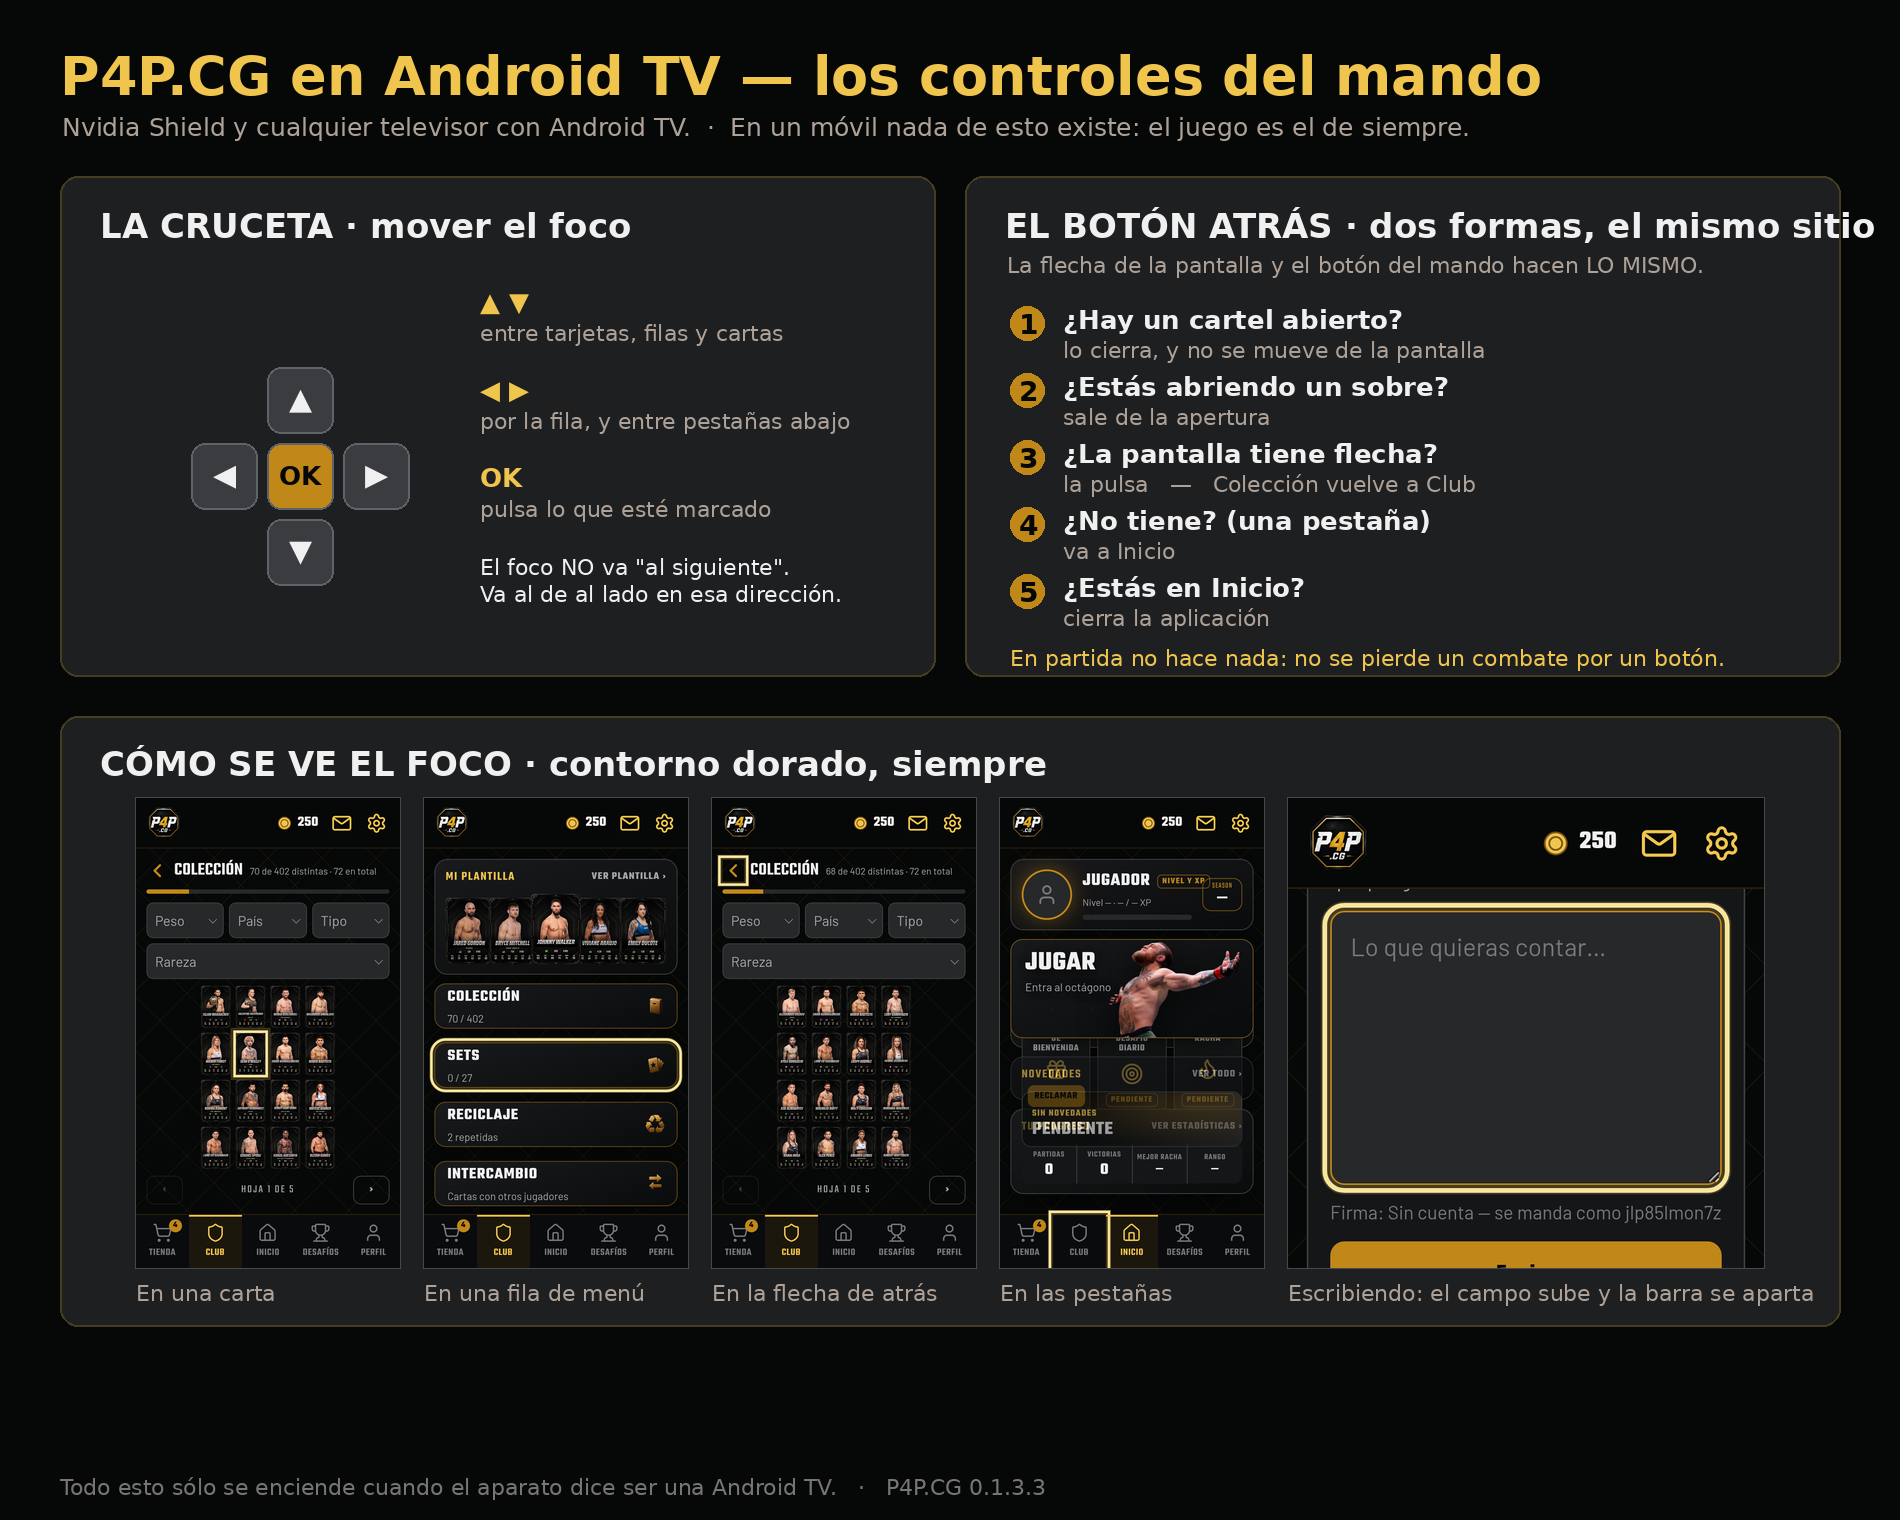
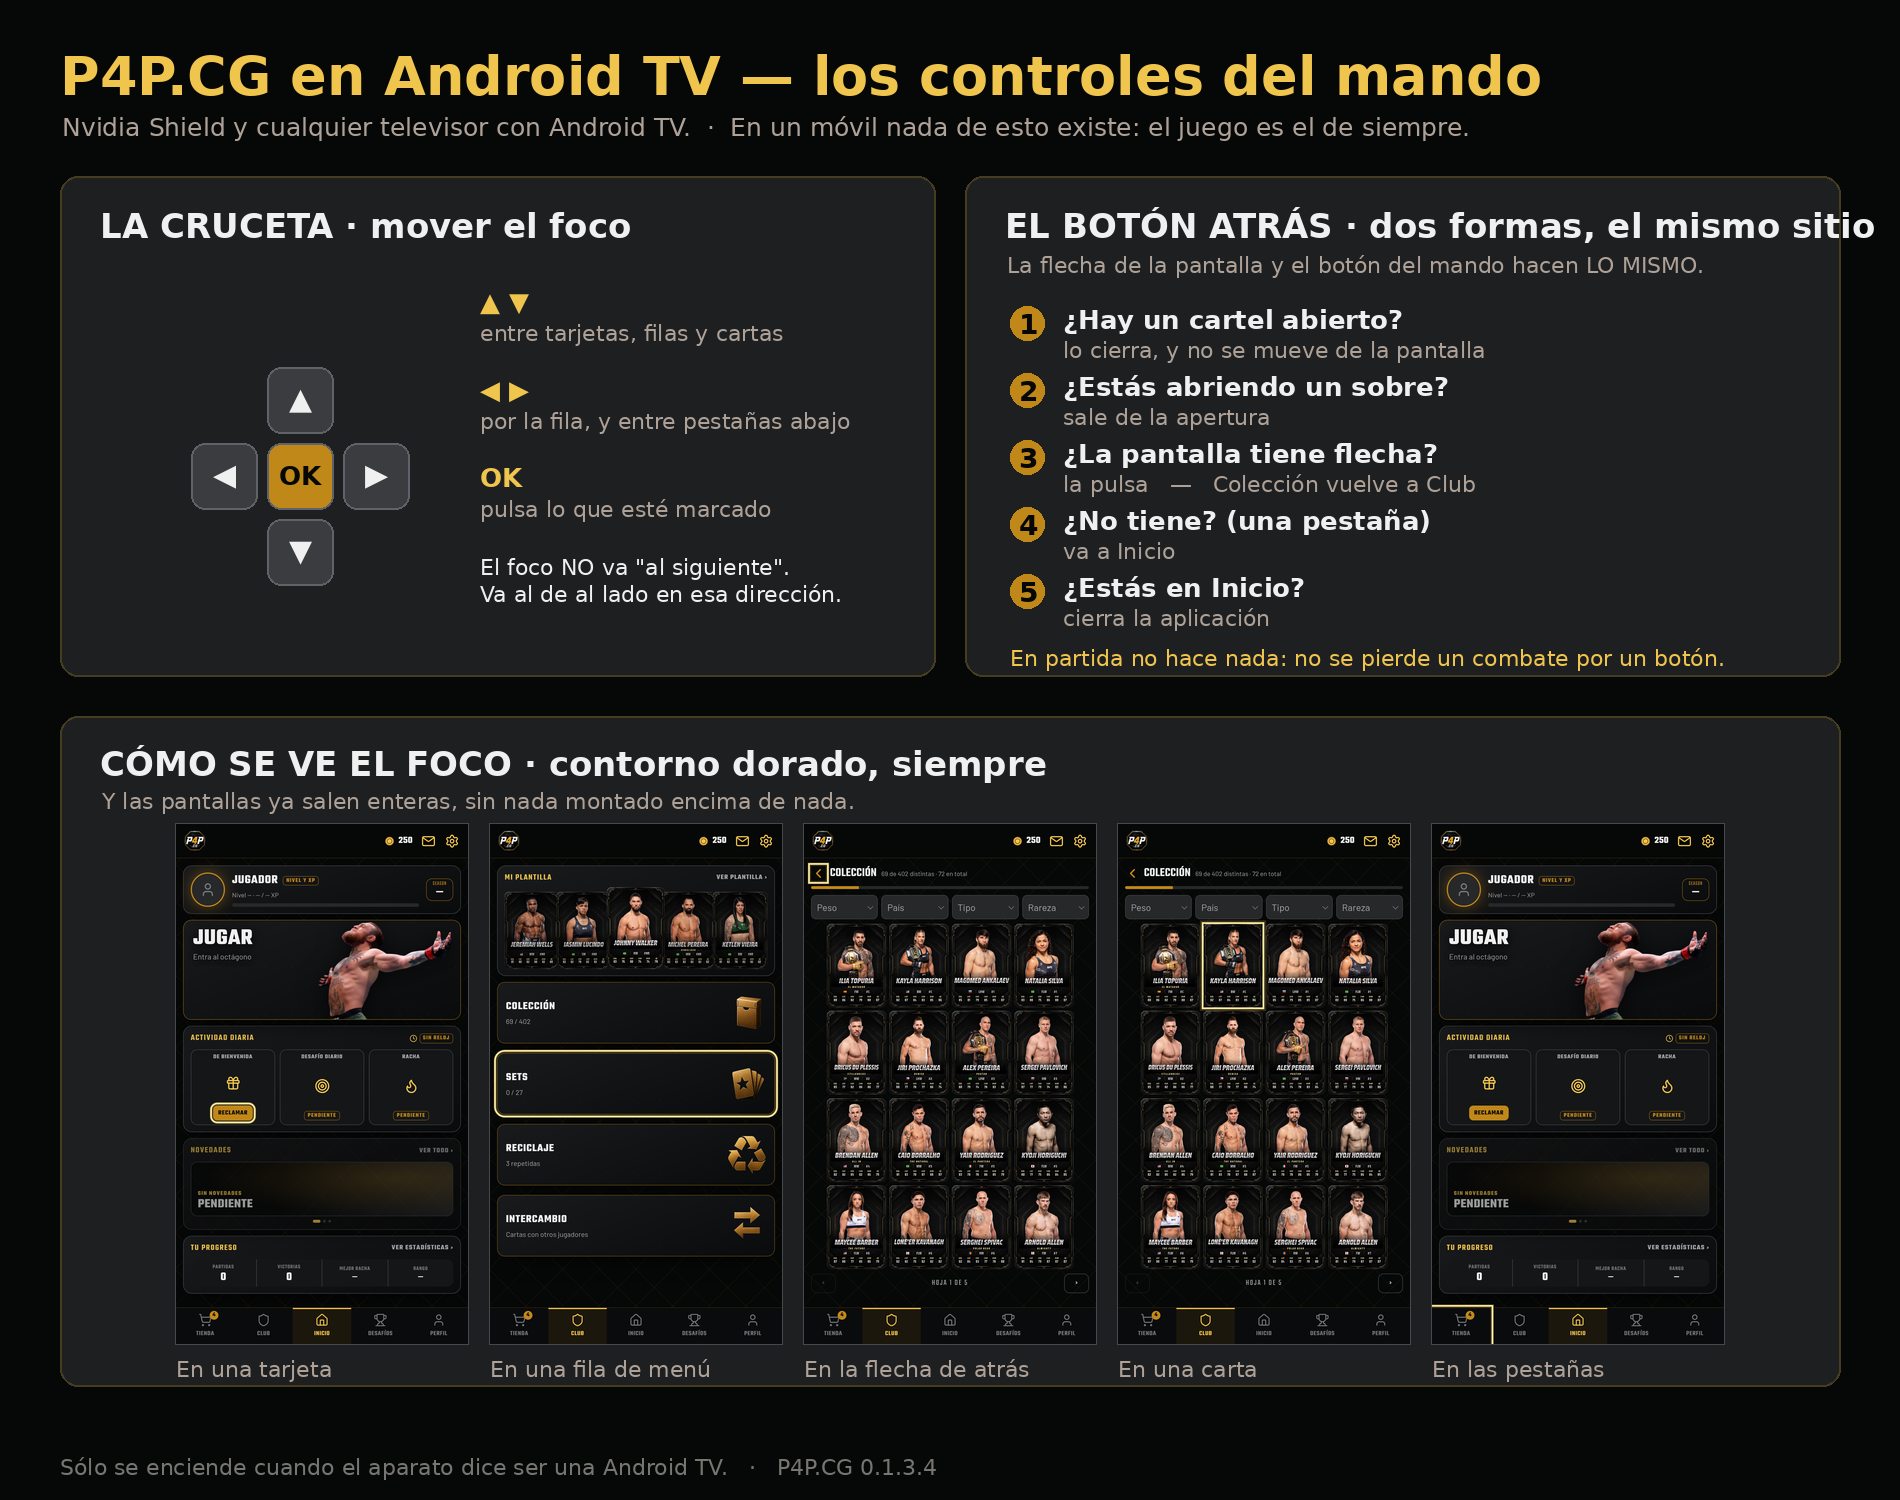
En la tele ya no se amontona nada: se pide una pantalla más ancha
"inicio por ejemplo estoy viéndolas unas apiladas en otras, y eso NO ME
SIRVE". Y tenía razón: mi comprobación medía si se desbordaba LA PÁGINA, y
esto era contenido saliéndose DENTRO de su panel. La página no se pasaba ni
un píxel y las letras se montaban igual.

LA CAUSA. Estas columnas son flex con `flex-basis:0`, que reparte por el
FACTOR DE CRECIMIENTO y no por lo que ocupa cada uno, y con `min-height:0`
encogen sin quejarse. Están medidas para los ~598 px de alto útil de un
móvil; la ventana de una tele son 540 EN TOTAL. Al apretarlas, a un bloque
le tocaba menos de lo que mide su propio texto, el texto se salía por abajo
y se plantaba encima del siguiente. Medido a 304x540: dos textos pisándose
en Inicio, cinco en Tienda y cuatro en el Perfil.

EL ARREGLO BUENO: PEDIRLE A LA TELE UNA PANTALLA MÁS ANCHA DE LA QUE HAY. En
la tele el meta viewport pide `width=495`, así que el alto en píxeles de CSS
sube en proporción hasta unos 879 y la maqueta recupera el sitio de un
móvil. Se dibuja al 61%, que en cincuenta pulgadas se lee de sobra: lo que
se pierde en tamaño se gana en verlo entero. Del lado de Android hacen falta
setUseWideViewPort(true) y setLoadWithOverviewMode(true), y sólo si es tele.

Medido: a 495, CERO desbordes y CERO textos pisándose en las ocho pantallas.
A 475 la Tienda todavía se pasaba 25 px.

Y SI UN WEBVIEW NO HACE CASO A ESE ANCHO NO SE ROMPE NADA —por eso se puede
poner sin haberlo probado en el aparato—: se queda en los ~304x540 de la
[…]

diff --git a/juego/juego.html b/juego/juego.html
@@ -5,7 +5,26 @@
      ANTES del primer fotograma o la primera pintada saldría con la maqueta de móvil.
      TODO lo que es de tele cuelga de esta clase. En un móvil, en el navegador y en el
      servidor no se pone nunca, así que allí no cambia absolutamente nada. -->
-<script>if(/[?&]tv=1(&|$)/.test(location.search))document.documentElement.classList.add('tv');</script>
+<script>if(/[?&]tv=1(&|$)/.test(location.search)){
+  document.documentElement.classList.add('tv');
+  /* Y SE LE PIDE AL WEBVIEW UNA PANTALLA MÁS ANCHA DE LA QUE HAY, que es lo que hace que
+     quepa todo. La ventana que deja una tele son unos 304x540 px de CSS, y estas
+     pantallas están medidas para los 598 de alto útil de un móvil: no caben, y apretarlas
+     era lo que amontonaba unos textos sobre otros.
+
+     Pidiendo 495 de ancho, el alto en píxeles de CSS sube en la misma proporción —hasta
+     unos 879— y la maqueta vuelve a tener el sitio de un móvil. Se dibuja al 61%, que en
+     una tele de cincuenta pulgadas se lee de sobra: lo que se pierde en tamaño se gana en
+     verlo entero. Medido: a 495 salen CERO desbordes y CERO textos pisándose en las ocho
+     pantallas; a 475 la Tienda todavía se pasaba 25 px.
+
+     SI EL WEBVIEW NO LO HACE CASO no se rompe nada: se queda en los 304 de siempre, que
+     con los arreglos de flex de más abajo también salen sin nada pisado —sólo con que
+     algunas pantallas se desplacen—. Por eso se puede poner sin haberlo podido probar en
+     el aparato. */
+  var mv=document.querySelector('meta[name=viewport]');
+  if(mv) mv.setAttribute('content','width=495, user-scalable=no, viewport-fit=cover');
+}</script>
 <style>
 /* ═══════════════════════════════════════════════════════════════
    PROTOTIPO JUGABLE — juego de cartas de MMA
@@ -1500,6 +1519,32 @@ textarea.campo{resize:vertical;line-height:1.35;font-family:var(--texto)}
    cualquier hoja. Sin esto la barra no se iba y el cuadro de texto seguía quedándose con
    el último palmo detrás. */
 .tv body.escribiendo #nav{display:none!important}
+
+/* ── EN LA TELE, NINGÚN BLOQUE POR DEBAJO DE SU CONTENIDO ─────────────────────
+   Esto es lo que arregla el "unas apiladas en otras" de Inicio.
+
+   Las columnas de menú son flex con `flex:1 1 0` y `min-height:0`, que es lo que las
+   hace repartirse la pantalla del móvil en la proporción medida del boceto. Pero
+   `flex-basis:0` reparte POR EL FACTOR DE CRECIMIENTO, no por lo que ocupa cada uno: si
+   el hueco es más pequeño que la suma de los contenidos —y en una tele lo es, 540 px
+   contra los 598 para los que está medido—, a un bloque le toca menos de lo que mide su
+   propio texto. Y con `min-height:0` no se queja: encoge, el texto se sale por abajo y
+   se planta encima del bloque siguiente.
+
+   Con `flex-basis:auto` cada uno arranca en lo que ocupa y sólo CRECE si sobra sitio; y
+   `min-height:auto` —que es el valor de fábrica de un elemento flex— le devuelve el
+   derecho a no encoger por debajo de su contenido. Lo que no cabe se desplaza, que con
+   la cruceta es lo natural.
+
+   En un móvil no existe ninguna de estas reglas: la proporción medida del boceto se
+   queda intacta. */
+.tv .pila > *,.tv .pila.v2 > .crece{flex-basis:auto;min-height:auto}
+.tv .blq,.tv .blq > .cuerpo{min-height:auto}
+/* Y lo mismo en los grupos de filas del Perfil, que van por su cuenta: reparten con
+   `flex:var(--n) 1 0` —el peso de cada grupo es cuántas filas tiene— y además llevan
+   `overflow:hidden`, así que apretados no sólo se pisaban: se cortaban. */
+.tv .lista.crece > .grupo,.tv .grupo > .fila{flex-basis:auto;min-height:auto}
+.tv .lista.crece > .fila:not(.emblema){max-height:none}
 </style>
 
 <div id="top">
@@ -2783,7 +2828,24 @@ function ajustarRejillas(){
       const r=e.getBoundingClientRect();
       if(r.height) abajo+=r.height+8;
     }
-    q.style.height=Math.max(180, innerHeight-arriba-abajo-12).toFixed(1)+'px';
+    /* EN LA TELE NO SE APRIETA POR DEBAJO DE LO QUE PIDE EL CONTENIDO, y esto lo cazó
+       él mirando Inicio: "estoy viéndolas unas apiladas en otras, y eso NO ME SIRVE".
+
+       Estas columnas están medidas para el alto útil de un móvil —unos 598 px—, y la
+       ventana que deja una tele son 540 EN TOTAL. Al fijarle a la pila un alto menor
+       que el suyo, sus filas —que llevan `flex:1 1 0`— se reparten lo que hay y cada
+       una se queda más baja que su propio texto: el texto se sale de su caja y acaba
+       encima del de la fila de al lado. Medido a 304x540: dos textos pisándose en
+       Inicio, cinco en Tienda y cuatro en el Perfil.
+
+       Y NO ES UN PROBLEMA QUE SE ARREGLE ENCOGIENDO LETRA: no cabe, y punto. Así que en
+       la tele la pila se queda con lo que pida el contenido y la pantalla se desplaza,
+       que con la cruceta es lo natural —el foco se arrastra solo a la vista—. Cuando el
+       hueco da de sobra, que es casi siempre, esto vale exactamente lo de antes.
+
+       EN UN MÓVIL NO CAMBIA NADA: `ESTV` es false y aquí sigue el `Math.max(180, …)`. */
+    const hueco=innerHeight-arriba-abajo-12;
+    q.style.height=(ESTV ? Math.max(q.scrollHeight, hueco) : Math.max(180, hueco)).toFixed(1)+'px';
   }
   for(const g of document.querySelectorAll('[data-fit]')){
     const [cols,filas]=g.dataset.fit.split(',').map(Number);

diff --git a/android/app/src/main/java/com/jaulaabierta/juego/MainActivity.java b/android/app/src/main/java/com/jaulaabierta/juego/MainActivity.java
@@ -50,6 +50,13 @@ public class MainActivity extends Activity {
     protected void onCreate(Bundle estado) {
         super.onCreate(estado);
 
+        /* FEATURE_LEANBACK es lo que declara una Android TV, y es lo que hay que mirar:
+         * no vale por el tamaño de pantalla ni por si hay táctil, que una tablet grande
+         * daría lo mismo y no es una tele. Se resuelve aquí arriba porque de ello dependen
+         * los ajustes del WebView y la dirección que se carga. */
+        final boolean esTele = getPackageManager()
+                .hasSystemFeature(PackageManager.FEATURE_LEANBACK);
+
         final WebViewAssetLoader cargador = new WebViewAssetLoader.Builder()
                 .addPathHandler("/assets/", new WebViewAssetLoader.AssetsPathHandler(this))
                 .build();
@@ -83,6 +90,21 @@ public class MainActivity extends Activity {
         ajustes.setJavaScriptEnabled(true);
         ajustes.setDomStorageEnabled(true);   // sin esto no se guarda la colección
         ajustes.setDatabaseEnabled(true);
+
+        /* SÓLO EN TELE: que el WebView haga caso al ancho que pide la página.
+         *
+         * Sin `setUseWideViewPort`, un WebView ignora el `width=` del meta viewport y usa
+         * siempre el ancho del aparato. El juego pide 495 en una tele para que la maqueta
+         * tenga el sitio de un móvil —si no, no cabe y los textos se amontonan—, y estas
+         * dos líneas son las que dejan que eso ocurra: la primera hace caso al ancho
+         * pedido y la segunda encaja la página para que se vea entera en vez de dejarla a
+         * tamaño natural con desplazamiento a los lados.
+         *
+         * EN UN MÓVIL NO SE TOCAN, así que allí el WebView sigue exactamente igual. */
+        if (esTele) {
+            ajustes.setUseWideViewPort(true);
+            ajustes.setLoadWithOverviewMode(true);
+        }
 
         // Puente para el menú de compartir del sistema. navigator.share no existe en un
         // WebView normal, y pasar el código de sala al amigo es el paso del que depende
@@ -149,12 +171,6 @@ public class MainActivity extends Activity {
             return WindowInsetsCompat.CONSUMED;
         });
         ViewCompat.requestApplyInsets(raiz);
-
-        /* FEATURE_LEANBACK es lo que declara una Android TV, y es lo que hay que mirar:
-         * no vale por el tamaño de pantalla ni por si hay táctil, que una tablet grande
-         * daría lo mismo y no es una tele. */
-        final boolean esTele = getPackageManager()
-                .hasSystemFeature(PackageManager.FEATURE_LEANBACK);
 
         if (estado == null) web.loadUrl(esTele ? INICIO_TV : INICIO);
         else web.restoreState(estado);

diff --git a/CLAUDE.md b/CLAUDE.md
@@ -1118,6 +1118,39 @@ nosotros por código y el navegador no siempre lo cuenta como "visible". Y **no 
 el `border-radius`**: el contorno ya sigue la forma del elemento, y poniéndoselo la carta
 cambiaría de forma justo al enfocarla.
 
+**Y EN LA TELE SE LE PIDE UNA PANTALLA MÁS ANCHA DE LA QUE HAY, que es lo que hace que
+quepa todo.** Lo cazó él: *"inicio por ejemplo estoy viéndolas unas apiladas en otras, y
+eso NO ME SIRVE"*. Estas pantallas están medidas para los ~598 px de alto útil de un
+móvil, y la ventana de una tele son **540 en total**: no caben, y apretarlas era lo que
+montaba unos textos sobre otros.
+
+El arreglo es el meta viewport: en la tele el juego pide **`width=495`**, así que el alto
+en píxeles de CSS sube en proporción hasta unos **879** y la maqueta recupera el sitio de
+un móvil. Se dibuja al **61%**, que en cincuenta pulgadas se lee de sobra. Medido: a 495
+salen **cero desbordes y cero textos pisándose** en las ocho pantallas; a 475 la Tienda
+todavía se pasaba 25 px. Del lado de Android hacen falta **`setUseWideViewPort(true)`** y
+**`setLoadWithOverviewMode(true)`**, y sólo se ponen si es tele.
+
+**SI UN WEBVIEW NO HACE CASO A ESE ANCHO NO SE ROMPE NADA**, y por eso se pudo poner sin
+probarlo en el aparato: se queda en los ~304x540 de la ventana física, y ahí **también
+salen cero textos pisándose** —sólo que algunas pantallas de menú se desplazan—. Eso lo
+sujetan dos arreglos de flex que van aparte:
+
+- **`flex-basis:0` reparte por el factor de crecimiento, no por lo que ocupa cada uno.**
+  Con el hueco más pequeño que la suma de los contenidos, a un bloque le toca menos de lo
+  que mide su propio texto; y con `min-height:0` encoge sin quejarse, el texto se sale por
+  abajo y se planta encima del bloque siguiente. En tele van con **`flex-basis:auto` y
+  `min-height:auto`**: cada uno arranca en lo que ocupa y sólo crece si sobra sitio.
+- **Y la `.pila` no se aprieta por debajo de su contenido**: `Math.max(scrollHeight, hueco)`
+  en vez de `Math.max(180, hueco)`.
+
+**LA COMPROBACIÓN QUE FALTABA.** Medir `scrollHeight - innerHeight` sólo caza que se
+desborde LA PÁGINA, y aquí el contenido se salía DENTRO de su panel: la página no se
+desbordaba ni un píxel y las letras se montaban igual. Ahora `ver-tv.mjs` coge los
+elementos de texto **sin hijos** y los mira de dos en dos: si dos se solapan más de un
+tercio, se están pisando. En un móvil salen cero en las cinco pantallas, así que **cero es
+la vara**. Se mide en los dos escenarios —495 y 304— y en el móvil.
+
 **LA VENTANA DE UNA TELE NO ES LA DE UN MÓVIL, Y DA IGUAL LA RESOLUCIÓN.** Lo avisó él:
 *"estos aparatos no la abren a pantalla completa, sino que hacen lo que sería una pantalla
 de móvil en su tamaño"*. Y Android TV **normaliza a 960x540 dp en 720p, 1080p y 4K** —lo
@@ -1148,7 +1181,7 @@ pestañas**. Dos arreglos, los dos de tele:
 Medido con la ventana al **55%** (304x297) y al 67%: el campo se ve **entero** y sin nada
 encima, en las dos pantallas que escriben y también en el móvil.
 
-**La chuleta de los controles está en `docs/controles-tv.png`**, y está en el repositorio
+**Las dos chuletas están en `docs/controles-tv.png` y `docs/teclado-tv.png`**, y está en el repositorio
 a propósito: se la pasé por el chat y desde su aplicación no la podía descargar, así que
 desde ahí tiene una dirección normal de la que bajarla. Si cambian los controles, se
 rehace.

diff --git a/docs/novedades.md b/docs/novedades.md
@@ -1,18 +1,17 @@
-Versión **0.1.3.3** de P4P.CG. El **botón ATRÁS del mando** en Android TV. En un móvil no
-cambia nada: el atrás sigue llevando a Inicio, como siempre.
+Versión **0.1.3.4** de P4P.CG. Las pantallas ya salen **enteras** en Android TV. En un
+móvil no cambia nada.
 
-### El atrás del mando ya vuelve a donde toca
+### Se veían unas cosas encima de otras
 
-En una tele el atrás del mando es *la* forma de volver, y hasta ahora hacía lo del móvil:
-saltar a Inicio. Desde Colección te sacaba a Inicio en vez de devolverte a Club.
+En Inicio, en la Tienda y en el Perfil el texto de un bloque acababa montado sobre el de
+al lado. Estas pantallas están medidas para el alto de un móvil, y la ventana que deja una
+tele es mucho más baja: al apretarlas, cada bloque se quedaba más corto que su propio
+texto.
 
-Ahora **hace lo mismo que la flecha de la pantalla**, así que las dos formas de volver
-—la flecha con la cruceta y el botón del mando— van siempre al mismo sitio:
+Ahora el juego **le pide a la tele una pantalla más ancha de la que hay**, y con eso el
+alto sube en la misma proporción y la maqueta vuelve a tener el sitio de un móvil. Se
+dibuja algo más pequeño, pero en un televisor eso se lee de sobra: lo que se pierde en
+tamaño se gana en verlo todo. Y ningún bloque puede volver a encogerse por debajo de su
+contenido.
 
-- si hay un cartel abierto encima, lo cierra y no se mueve de la pantalla
-- si estás abriendo un sobre, sale de la apertura
-- si la pantalla tiene flecha, la pulsa
-- si no la tiene, va a Inicio
-- y en Inicio, cierra la aplicación
-
-Durante una partida sigue sin hacer nada, para no perder un combate por un botón.
+Comprobado en las ocho pantallas: **cero desbordes y cero textos pisándose**.
